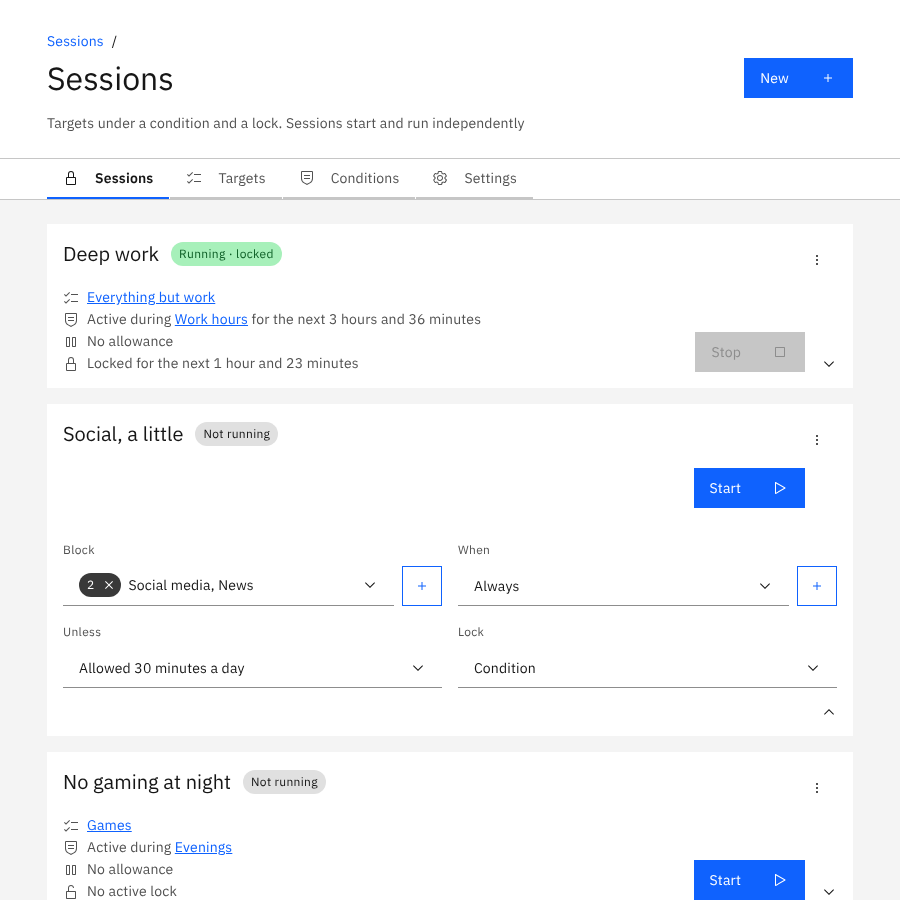
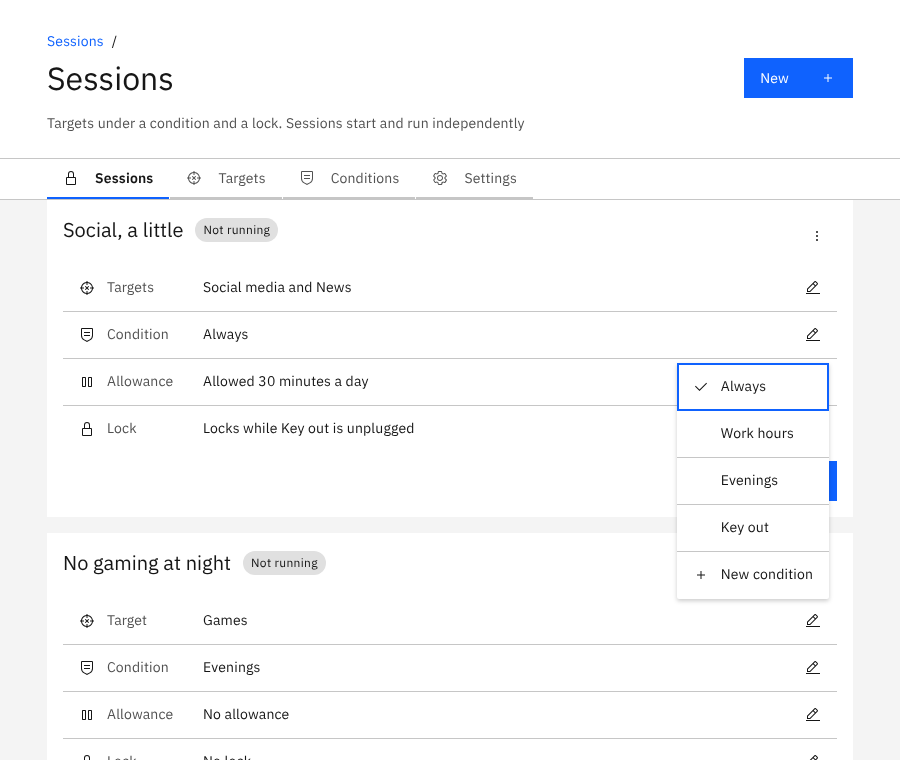
Session rows: tidy up and document
Comments and AGENTS.md describe the rows and their panels; the tile's menu
no longer repeats Lock settings (the Lock row has them); a new session's tile
is brought into view; README text and session screenshots show the rows.

Claude-Session: https://claude.ai/code/session_01HsS8kF3USdsoWmCYpc2BeJ

diff --git a/src/js/fields.js b/src/js/fields.js
@@ -1,8 +1,8 @@
-// A session is set up on its own tile, never in an editor page: a row each for Block (its
-// targets), When (its condition), Unless (its allowance) and Lock, each opening a menu. Each
-// choice is saved as it is made. An allowance's settings, a new session and a new name are asked
-// in the modal. New target and New condition (in their menus) go to that kind's editor and come
-// back with it chosen (`detour`).
+// A session is set up on its own tile, never in an editor page: a row each for its Targets,
+// Condition, Allowance and Lock, each with an edit button opening a panel of what it can be. Each
+// choice is saved as it is made. An allowance's settings, a lock's settings, a new session and a
+// new name are asked in the modal. New target and New condition (in their panels) go to that
+// kind's editor and come back with it chosen (`detour`).
 
 import { ask, el, invalid, invoke, newId, notify, overview, quoted, refresh, runningOf, t } from "./core.js";
 import { LOCKS } from "./locks.js";
@@ -10,7 +10,7 @@ import { allowanceSection } from "./forms.js";
 import { KINDS, freeName } from "./kinds.js";
 import { detour } from "./detour.js";
 
-// The condition menu's choice for no condition.
+// The condition panel's choice for no condition.
 const ALWAYS = "always";
 
 // Saves a session with `change` applied; a refusal (a locked session, no target) is shown on the page.
@@ -24,11 +24,12 @@ async function save(session, change) {
   await refresh();
 }
 
-// ---- A session's rows: Block, When, Unless and Lock, a `cds-contained-list` on its tile. A row
-// that can be changed opens Carbon's menu of what it can be: the targets to tick, one condition,
-// allowance or lock method to choose, and making a new target or condition, or the settings of
-// the allowance or lock it has. A locked session's targets, condition and lock stay as they are
-// (no menu); its allowance may still get stricter, which is for the service to judge.
+// ---- A session's rows: Targets, Condition, Allowance and Lock (keys `block`, `when`, `unless`,
+// `lock`), a `cds-contained-list` on its tile. A row that can be changed has an edit button that
+// opens a panel of what it can be: the targets to tick, one condition, allowance or lock method to
+// choose, and making a new target or condition, or the settings of the allowance or lock it has.
+// A locked session's targets, condition and lock stay as they are (no edit button); its allowance
+// may still get stricter, which is for the service to judge.
 
 const ROWS = [
   { key: "block", icon: "target-16" },
@@ -36,7 +37,6 @@ const ROWS = [
   { key: "unless", icon: "pause-16" },
   { key: "lock", icon: "locked" },
 ];
-
 
 // The rows of the session `id`, added to its tile's parts (`tiles.js`).
 function addRows(parts, id) {
@@ -103,9 +103,10 @@ function renderRows(parts, session, lines) {
   }
 }
 
-// What a row's panel holds, with no heading of its own (the row says what it is): the targets as Carbon checkboxes, each tick saved
-// at once and the panel staying open for the next, and a button to make a new one; or one condition,
-// allowance or lock method in a plain list to click (`choices`).
+// What a row's panel holds, with no heading of its own (the row says what it is): the targets as
+// Carbon checkboxes, each tick saved at once and the panel staying open for the next, and a button
+// to make a new one; or one condition, allowance or lock method in a plain list to click
+// (`choices`).
 function fillPanel(parts, id, key, panel, close) {
   const session = current(id);
   const button = (text, icon, act) => {
@@ -210,7 +211,7 @@ async function setAllowance(parts, id, type) {
   if (type === "none") return save(session, { allowance: null });
   const form = allowanceSection();
   form.fill(session.allowance && session.allowance.type === type ? session.allowance : { type });
-  // Its type is what was chosen in the dropdown.
+  // Its type is what was chosen in the panel.
   form.nodes[0].hidden = true;
   parts.choosing = true;
   const terms = await ask({
@@ -228,9 +229,9 @@ async function setAllowance(parts, id, type) {
   else await refresh();
 }
 
-// A new session: its name and its targets, in the modal; the rest is set on its tile, which
-// opens expanded.
-async function newSession(expand) {
+// A new session: its name and its targets, in the modal; the rest is set on its tile, which is
+// brought into view (`show`).
+async function newSession(show) {
   const name = el("cds-text-input", { label: t("common.name"), value: freeName("sessions", overview.sessions) });
   const targets = el("cds-multi-select", {
     "title-text": t("sessions.fields.targets"),
@@ -253,10 +254,8 @@ async function newSession(expand) {
     },
   });
   if (!made) return;
-  // Open from the start, and in view once its tile is there.
-  expand(made.id);
   await save(made, {});
-  expand(made.id);
+  show(made.id);
 }
 
 // A new name, in the modal.

diff --git a/src/js/tiles.js b/src/js/tiles.js
@@ -203,8 +203,6 @@ function makeTile(kind, id) {
         ? el("cds-overflow-menu-item", { "data-action": "rename" }, t("sessions.fields.rename"))
         : el("cds-overflow-menu-item", { "data-action": "edit" }, t("common.edit")),
       el("cds-overflow-menu-item", { "data-action": "duplicate" }, t("common.duplicate")),
-      // A session's lock settings (a timer's length, …); the method is the tile's select.
-      kind === "sessions" ? el("cds-overflow-menu-item", { "data-action": "lock" }, t("sessions.lockSettings")) : null,
       el("cds-overflow-menu-item", { "data-action": "delete", danger: true }, t("common.delete")),
     ),
   );
@@ -234,11 +232,10 @@ function makeTile(kind, id) {
       if (item.dataset.action === "rename") renameSession(id);
       if (item.dataset.action === "edit") location.hash = KINDS[kind].editPath + encodeURIComponent(id);
       if (item.dataset.action === "duplicate") duplicate(kind, id);
-      if (item.dataset.action === "lock") setLock(id, overview.sessions.find((b) => b.id === id).lock.method);
       if (item.dataset.action === "delete") confirmDelete(kind, id);
     });
   }
-  const parts = { tile, top, name, tag, summary, actions, menu, lock, lockItem: menu.querySelector('[data-action="lock"]'), deleteItem: menu.querySelector('[data-action="delete"]') };
+  const parts = { tile, top, name, tag, summary, actions, menu, lock, deleteItem: menu.querySelector('[data-action="delete"]') };
   if (kind === "sessions") {
     addSessionControls(parts, id);
     addRows(parts, id);
@@ -388,8 +385,6 @@ function renderSessionControls(parts, session) {
   parts.tag.hidden = false;
   parts.tag.setAttribute("type", running ? (quiet ? "cool-gray" : running.locked ? "green" : "blue") : "gray");
   parts.tag.textContent = t(`sessions.state.${running ? (quiet ? "inactive" : running.locked ? "runningLocked" : "running") : "notRunning"}`);
-  // Settings to change (in the menu): all locks but No lock.
-  parts.lockItem.hidden = !!(running && running.locked) || !LOCKS[session.lock.method] || !LOCKS[session.lock.method].form;
   const busy = parts.toggle.dataset.busy === "1";
   // A session locked with a delay is asked to stop first, then waited out.
   const asking = running && running.stop_delay && running.stop_remaining === null;

diff --git a/AGENTS.md b/AGENTS.md
@@ -34,7 +34,7 @@ Bullseye is a Windows tray app (Tauri 2, Rust, a Carbon web page) that blocks di
 | `clock.rs`, `localtime.rs`, `datetime.rs`, `duration.rs`, `boot.rs` | internet time, time zones, dates, durations, which start of Windows this is |
 | `watchdog.rs`, `sync.rs` | the service's watch over the app, logging; crash-safe locks and threads |
 
-Frontend (`src/`, no build step): `index.html`, `app.css` (layout only), `strings.js` (every visible text), `js/main.js` (router, tabs, Settings), `core.js` (commands, texts, status, `ask`), `kinds.js` (`KINDS`: the three kinds, generic pages), `forms.js` (the target and condition editors, and an allowance's form), `locks.js` (`LOCKS`), `tiles.js`, `fields.js` (a session's fields on its tile, the New session and Rename modals), `editor.js` (targets and conditions), `detour.js` (a target or condition made from a session's tile). `src/vendor/` is Carbon, generated by `npm run vendor`; never edit it.
+Frontend (`src/`, no build step): `index.html`, `app.css` (layout only), `strings.js` (every visible text), `js/main.js` (router, tabs, Settings), `core.js` (commands, texts, status, `ask`), `kinds.js` (`KINDS`: the three kinds, generic pages), `forms.js` (the target and condition editors, and an allowance's form), `locks.js` (`LOCKS`), `tiles.js`, `fields.js` (a session's rows on its tile and their panels, the New session and Rename modals), `editor.js` (targets and conditions), `detour.js` (a target or condition made from a session's tile). `src/vendor/` is Carbon, generated by `npm run vendor`; never edit it.
 
 ## Rules
 
@@ -87,9 +87,9 @@ All UI is IBM's Carbon design system through `@carbon/web-components`; a missing
 - Layout: one full-width column per view in `main`, capped at 66rem and centred; the window is at least 456 × 480 px (Delete, Cancel and Save fit on one row); no horizontal scrolling. Only `#scroller` scrolls, with the scrollbar's room kept on both sides so content stays centred; the heading and tabs are fixed above it.
 - Navigation: line `cds-tabs` (icon-only below 672 px) and a breadcrumb on every view; no header actions, hamburger or side nav.
 - Buttons: `size="md"`, every button has an icon (except the modal's footer), no ghost buttons; `tertiary` for minor actions, `danger-tertiary` for destructive ones.
-- Sessions: each is Carbon's expandable tile (`cds-expandable-tile with-interactive`, only its chevron toggles it). Collapsed: its name with the state tag, a line each for its targets, condition, allowance and lock, and Start / Stop; expanded, also its fields, Block (a `cds-multi-select`), When, Unless and Lock, one per row below md and two from md, each choice saved as made (the targets when their menu closes), the targets and condition with a + icon button beside them that makes a new one on a detour. A locked session's targets and condition are read-only; its allowance stays open (the service takes only a stricter one). Which tiles are open is kept per viewer in `localStorage`. A link to a session (`#/edit/<id>`) opens its tile.
+- Sessions: each is a `cds-tile`: its name with the state tag and the ⋮ menu (Rename, Duplicate, Delete), then its rows in a `cds-contained-list` (Targets, Condition, Allowance, Lock: an icon, a label, the value and what is happening now), then Start / Stop. A row's action is a ghost `cds-icon-button` (`lg`, filling the row) that opens a plain `cds-popover` without a caret, below it, or above where it fits only there (no autoscroll): the targets as checkboxes (each tick saved at once, the panel staying open) with New target, or one condition, allowance or lock method in a disclosed `cds-contained-list` with a checkmark on the current one, New condition or the settings last. Each choice is saved as made; New target and New condition go on a detour. A locked session's targets, condition and lock have no edit button; its allowance stays open (the service takes only a stricter one). A link to a session (`#/edit/<id>`) brings its tile into view.
 - Editors (targets, conditions): a name first, then sections with a heading and a line of text, spaced apart, no divider lines but the one above the buttons; the target editor uses an accordion. Every choice from a list is a `cds-dropdown` with `autoalign`. Forms are built anew each time (Carbon elements must not be re-attached).
-- Anything that cannot be undone asks first in the one `cds-modal` (`ask()`), which also holds short forms (lock settings, passwords). A session's lock is its tile's fourth field: for the next start while it is stopped, at once after a yes while it runs unlocked (`lock_session`), read-only while it is locked.
+- Anything that cannot be undone asks first in the one `cds-modal` (`ask()`), which also holds short forms (lock settings, passwords). A session's lock is its tile's fourth row: for the next start while it is stopped, at once after a yes while it runs unlocked (`lock_session`), read-only while it is locked.
 - The weekly schedule is the one hand-made control (`weekEditor`): Carbon has no time grid.
 
 ## Install

diff --git a/README.md b/README.md
@@ -25,7 +25,7 @@ Each target also has **actions**: the ways things are closed. Blocked tabs in Ch
 
 ## Features
 
-- **Sessions set up on their tiles**: open one to pick what it blocks, when, what it allows and how it locks, all in place. Several run at once, each started and stopped on its own, from the window or the command line, and a running session can be locked on the spot.
+- **Sessions set up on their tiles**: each row (targets, condition, allowance, lock) has an edit button to change it in place. Several run at once, each started and stopped on its own, from the window or the command line, and a running session can be locked on the spot.
 - **Conditions** by weekly schedule (drawn on a week grid), USB flash drive, webhook (any URL that answers, so you can hook up a home automation or a calendar), or any / all of those combined.
 - **Locks that hold**: the rules live in a Windows service that runs as SYSTEM, so ending the app in Task Manager does not help, times are measured on internet time so changing the clock does not either, and sessions survive a restart. A locked session's targets and conditions can only be made stricter.
 - **A way out you choose**: Unlock in Settings ends every session, behind a countdown you set (none by default) and optionally another way, such as a password or the USB key.
@@ -35,7 +35,7 @@ Each target also has **actions**: the ways things are closed. Blocked tabs in Ch
 
 | | |
 |---|---|
-| ![A session's tile, opened](docs/screenshots/session-tile.png) | ![A condition](docs/screenshots/condition-editor.png) |
+| ![Changing a session's condition on its tile](docs/screenshots/session-tile.png) | ![A condition](docs/screenshots/condition-editor.png) |
 
 ## Install
 
